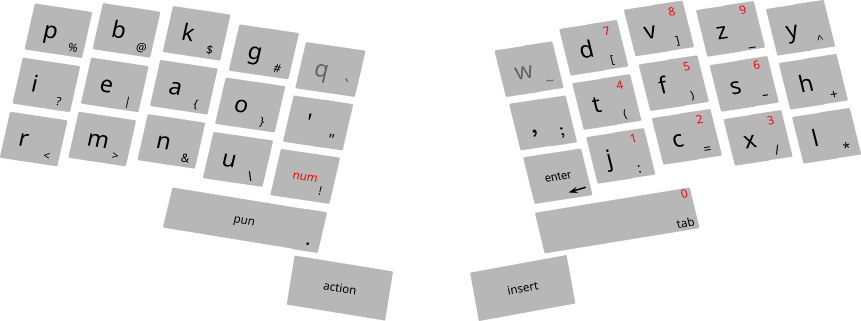
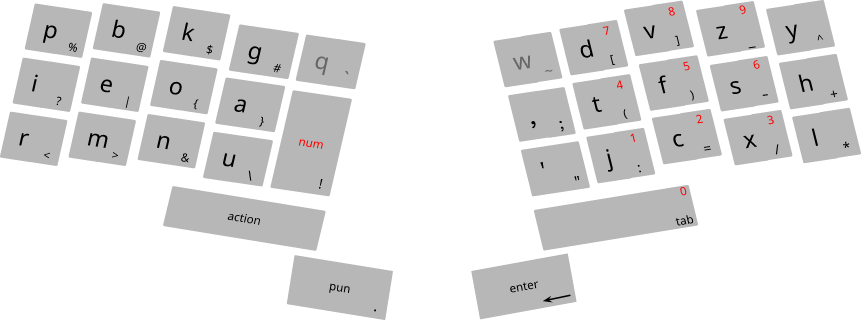
Add files via upload

diff --git a/index.html b/index.html
@@ -19,5 +19,5 @@
   </style>
   </head><body><a href='https://github.com/damoonsaghian/Codev'><h1>Codev</h1></a>
 <h2>1, Codev</h2><div>Codev is a COllaborative DEVelopment environment with command'based user interface,</div><div>	as an ideal frontend for GNUnet</div><div><p></p></div><div>list of all projects will appear in a floating layer, at the center of the screen, called overview layer</div><div>overview layer:</div><div>, left panel:</div><div>	, roots: user's home plus attached devices</div><div>	, project groups: content of roots</div><div>, main view:</div><div>	projects: content of project groups</div><div><p></p></div><div><img src='codev.png' alt='codev.png'/></div><div><p></p></div><div>in a project view, the list of files of a project will be displayed in the left side'bar</div><div>opened files will be slightly highlighted</div><div>files and directories with names starting with a dot, will be hidden</div><div>".cache" directory inside a project is for files we don't want to share or backup</div><div><p></p></div><div>each opened file will have a side'bar at right showing its sections</div><div>there we can create new view corresponding to a section</div><div>sections with views will be slightly highlighted</div><div><p></p></div><div>text files will be opened in a text editor</div><div>directories containing media files, will be opened in a gallery view</div><div>files and directories inside a gallery, will be opened in a floating layer</div><div><p></p></div><div>non'local projects, web pages, PDF documents, etc, accessed from links inside the main project,</div><div>	will be opened in a floating layer</div><div>web pages: move caret between visual elements (ignoring structural elements)</div><div><p></p></div><div>actions:</div><div>, next/previous word, line, paragraph, section (righ/left middle row keys)</div><div>, next/previous file</div><div>, next/previous section view, opened file</div><div>, go to the list of files to open a file view</div><div>, go to the list of sections to open a section view</div><div>, start and end selection, then copy or cut</div><div>, paste</div><div>, undo</div><div><p></p></div><div>, navigation: move, search</div><div>, selection</div><div>, completion</div>
-<h2>2, command based user interface</h2><div>command based user interfaces (using keyboard, voice, gesture) are faster, more convenient and more powerful,</div><div>	than pointer based user interfaces (using mouse, touch, pen)</div><div>pointer based interface seems appealing at first sight, because of its discoverability</div><div>but with simple uniform GUI (ie the oposite of what we see in websites),</div><div>	there is no need for a pointer based user interface</div><div><p></p></div><div>touch interface has an additional problem: interaction at a distance is not possible</div><div>touch interface can be useful in some special cases, but it's not good as a general interface</div><div><p></p></div><div>detection of voice commands is a relatively simple process (compared to general speech recognition),</div><div>	because we only need to match against a relatively small set of commands</div><div>a headset with near range microphone can be used, to exclude far away sound sources</div><div>also it is better to put battery and transmitter of the headset in a separate unit which can be put in a pocket</div><div>	this makes the headset lighter and safer</div><div><p></p></div><div>for those who neither can use all their fingers, nor can talk, gesture based (2d) input can be implemented</div><div><p></p></div><div><b>the ideal keyboard</b></div><div><img src='keyboard.png' alt='keyboard.png'/></div><div><p></p></div><div>the keyboard has two modes: insert mode and action mode</div><div>in action mode keys are mapped to navigation keys (arrows, page up, page down, home, end, esc),</div><div>	and ctrl/alt based keybindings</div><div>in action mode, "pun" key acts like "alt" key</div><div>when "action" or "insert" keys are pressed keyboard sends a special key combination,</div><div>	which can be used by applications, eg to flash the location of the cursor</div><div><p></p></div><div>to insert punctuations (in insert mode), press "pun"</div><div>	after entering a punctuation charactor, it automatically returns to normal insert mode</div><div>	unless the "pun" key is still pressed, in which case, it will return to normal mode after releasing "pun"</div><div>to insert numbers, press and hold "num"</div><div><p></p></div><div>to insert capital letters, press comma then press the letter</div><div>to insert an all capital word, press two commas</div><div>	the following letters will be inserted in capitalized form, until space is pressed</div><div>this is how it is implemented:</div><div>when comma key is press, keyboard enters the cap mode in which:</div><div>, pressing a letter key, sends a "backspace" key, and then the capitalized form of that letter,</div><div>	and then the cap mode will be canceled</div><div>, pressing comma again, sends a "backspace" key, and activates caps mode,</div><div>	which remains active until space (or enter or action) is pressed</div><div>, pressing any other keys, acts like normal, and cancels the cap mode</div><div><p></p></div><div>for compatibility with other applications, we may still need a mouse,</div><div>	plus "ctrl" and "shift" keys which can be put in the middle of the keyboard</div><div>for full compatibility we can add a row of function keys, plus the "delete" key</div><div><p></p></div><div><a href='https://github.com/abstracthat/dactyl-manuform'>https://github.com/abstracthat/dactyl-manuform</a></div><div><a href='https://zealot.hu/absolem/'>https://zealot.hu/absolem/</a></div><div><a href='https://github.com/foostan/crkbd'>https://github.com/foostan/crkbd</a></div><div><a href='https://github.com/nglgzz/42'>https://github.com/nglgzz/42</a></div><div><a href='https://github.com/adereth/dactyl-keyboard'>https://github.com/adereth/dactyl-keyboard</a></div><div>Kinesis Advantage 2 keyboard</div><div><a href='http://www.allthingsergo.com/the-best-ergonomic-mechanical-keyboards/'>http://www.allthingsergo.com/the-best-ergonomic-mechanical-keyboards/</a></div>
+<h2>2, command based user interface</h2><div>command based user interfaces (using keyboard, voice, gesture) are faster, more convenient and more powerful,</div><div>	than pointer based user interfaces (using mouse, touch, pen)</div><div>pointer based interface seems appealing at first sight, because of its discoverability</div><div>but with simple uniform GUI (ie the oposite of what we see in websites),</div><div>	there is no need for a pointer based user interface</div><div><p></p></div><div>touch interface has an additional problem: interaction at a distance is not possible</div><div>touch interface can be useful in some special cases, but it's not good as a general interface</div><div><p></p></div><div>detection of voice commands is a relatively simple process (compared to general speech recognition),</div><div>	because we only need to match against a relatively small set of commands</div><div>a headset with near range microphone can be used, to exclude far away sound sources</div><div>also it is better to put battery and transmitter of the headset in a separate unit which can be put in a pocket</div><div>	this makes the headset lighter and safer</div><div><p></p></div><div>for those who neither can use all their fingers, nor can talk, gesture based (2d) input can be implemented</div><div><p></p></div><div><b>the ideal keyboard</b></div><div><img src='keyboard.png' alt='keyboard.png'/></div><div><p></p></div><div>the keyboard has two modes: insert mode and action mode</div><div>in action mode, press "space" to go to "insert" mode</div><div>in action mode, keys are mapped to navigation keys (arrows, page up, page down, home, end, esc),</div><div>	and ctrl/alt based keybindings</div><div>in action mode, "pun" key acts like "alt" key</div><div>when "action" key is pressed, keyboard sends a special key combination,</div><div>	which can be used by applications, eg to flash the location of the cursor</div><div><p></p></div><div>to insert punctuations (in insert mode), press "pun"</div><div>	after entering a punctuation charactor, it automatically returns to normal insert mode</div><div>	unless the "pun" key is still pressed, in which case, it will return to normal mode after releasing "pun"</div><div>to insert numbers, press and hold "num"</div><div><p></p></div><div>to insert capital letters, press comma then press the letter</div><div>to insert an all capital word, press two commas</div><div>	the following letters will be inserted in capitalized form, until space is pressed</div><div>this is how it is implemented:</div><div>when comma key is press, keyboard enters the cap mode in which:</div><div>, pressing a letter key, sends a "backspace" key, and then the capitalized form of that letter,</div><div>	and then the cap mode will be canceled</div><div>, pressing comma again, sends a "backspace" key, and activates caps mode,</div><div>	which remains active until space (or enter or action) is pressed</div><div>, pressing any other keys, acts like normal, and cancels the cap mode</div><div><p></p></div><div>for compatibility with other applications, we may still need a mouse,</div><div>	plus "ctrl" and "shift" keys which can be put in the middle of the keyboard</div><div>for full compatibility we can add a row of function keys, plus the "delete" key</div><div><p></p></div><div><a href='https://github.com/abstracthat/dactyl-manuform'>https://github.com/abstracthat/dactyl-manuform</a></div><div><a href='https://zealot.hu/absolem/'>https://zealot.hu/absolem/</a></div><div><a href='https://github.com/foostan/crkbd'>https://github.com/foostan/crkbd</a></div><div><a href='https://github.com/nglgzz/42'>https://github.com/nglgzz/42</a></div><div><a href='https://github.com/adereth/dactyl-keyboard'>https://github.com/adereth/dactyl-keyboard</a></div><div>Kinesis Advantage 2 keyboard</div><div><a href='http://www.allthingsergo.com/the-best-ergonomic-mechanical-keyboards/'>http://www.allthingsergo.com/the-best-ergonomic-mechanical-keyboards/</a></div>
 <h2>3, GNUnet</h2><div><a href='https://www.gnunet.org/en/'>https://www.gnunet.org/en/</a></div><div><p></p></div><div><b>collaborative development using GNUnet file sharing</b></div><div>flaws of version control systems:</div><div>, they double the storage (working directory, local repository)</div><div>, their design makes it difficult to modify the history</div><div>	so in practice, the whole history must be kept indefinitely, even if not needed</div><div><p></p></div><div>when we download a project, a pristine copy is kept untouched in ".cache/gnunet/pristine",</div><div>	and ref links will be created in the working directory, and then we can work on our own branch</div><div>after a while when we want to pull and merge changes made in the main branch,</div><div>	first a three'way diff based on the main branch, pristine, and the working directory will be shown,</div><div>	then the user will be asked to accept different parts of the diff</div><div>to send a pull request to the main branch, first publish the pristine and the working directory,</div><div>	then send the two addresses to the main developer</div><div>	the main developer will make a diff based on these two, plus her own working directory</div><div>a pull request can be removed by sending a message to the main developer, and unpublishing the two links</div><div><p></p></div><div>changelog can be used to record credits, and at the same time, track backdoors</div><div><p></p></div><div><b>trustless secure transaction systems</b></div><div>decentralized internet is already elegantly implemented by GNUnet, but no one is talking about it</div><div>compare it with the hype around decentralized transaction systems, aka blockchians or distributed ledgers,</div><div>	which are inefficient and unscalable</div><div><p></p></div><div>in decentralized transaction systems, we have a P2P network where all nodes store the same ledger,</div><div>	which can be extended based on permissionless consesus between nodes</div><div>distributed ledgers are authenticated by mass collaboration powered by collective self'interests</div><div>appropriate incentives that will continue to encourage honest participation in the network,</div><div>	is a key component of the consensus protocol</div><div>anyone can participate in consensus,</div><div>	though one’s voting power is typically proportional to its possession of network resources,</div><div>	such as computation power, token wealth, storage space, etc</div><div>see "a survey of distributed consensus protocols for blockchain networks"</div><div>	<a href='https://arxiv.org/pdf/1904.04098.pdf'>https://arxiv.org/pdf/1904.04098.pdf</a></div><div><p></p></div><div>so in decentralized transaction systems:</div><div>, every full node has a copy of the ledger (an always growing database)</div><div>	typical blockchains with their currently limited number of users, are hundreds of gigabytes</div><div>	now just imagine that expanded on a global scale</div><div>	also note that, full nodes are necessary if you want private and trustless transactions</div><div>	using light nodes means we have to trust miners; how is that better than trusting banks</div><div>, transactions are slow</div><div>, the system is completely isolated from external world</div><div>	we cannot import external money and assets to the system</div><div>	a necessary feature, if we really want to replace current monetary system</div><div><p></p></div><div>it's clear that the motivation behind blockchains is not to replace the current corrupted monetary system,</div><div>	because it's just not capable to do that, by design</div><div>its only purpose is to create a side system for criminal activities</div><div><a href='http://my.pages.de/illegalblockchains'>http://my.pages.de/illegalblockchains</a></div><div><p></p></div><div>an ideal transaction system would be trustless, and avoids having a single point of failure</div><div>this doesn't necessarily mean that we have to completely decentralize everything</div><div>transactions intrinsically need some centralized parts</div><div>trying to decentralize it by force, based on an ideology, leads to hideous creatures like Bitcoin</div><div><p></p></div><div>we need special nodes (let's call them IO nodes):</div><div>, to import assets from external world</div><div>, to prevent double spending, whithout the need for a complicated consensus mechanism,</div><div>	hurting efficiency and scalability</div><div><p></p></div><div>tokens contain two fields:</div><div>, token type: determining if it's money, or any other kind of asset</div><div>, value+hash (for money tokens), or an identifier encoding the physical aspects of an asset</div><div><p></p></div><div>token history file: a file with the token as its name, containing the history of the token</div><div>each line has three parts seperated by space:</div><div>, timestamp</div><div>, a public key made by the owner (at that time),</div><div>, signature made by the private pair of the key in the previous line</div><div>	in the case of the first line, the signature made by the IO node</div><div><p></p></div><div>tokens are produced and signed by IO nodes based on real resources</div><div>to prevent a single point of failure, tokens will be signed by multiple IO nodes	</div><div><p></p></div><div>each IO node publishes all the issued tokens</div><div>for each token, a file will be published, with the token as the file name</div><div>	the file contains the signature of the latest owner</div><div>	the signature is made by the owner's public key, not the key in the history file</div><div>so IO nodes can't make fake tokens, or double spend a token, without being detected</div><div>violations made by IO nodes (double spendings, refusing valid transactions), will be reported,</div><div>	to remove them from next release of GNUnet</div><div>IO nodes do not have any power, they are just there to prevent double spending</div><div>you own your tokens signed off by IO nodes and all the previous owners</div><div><p></p></div><div>owners produce a new key for each token and for each IO node</div><div>so each IO node will have a different history file for the same token</div><div>to steal a token, one has to first hijack all IO nodes,</div><div>	and then somehow find all the private keys that the last owner used to sign the token with</div><div>even if we do not use a post quantum cryptography like NTRU,</div><div>	breaking all these keys with a quantum computer, would be very expensive</div><div><p></p></div><div>transaction request:</div><div>, timestamp</div><div>, list of provided tokens (plus a request for changes if needed)</div><div>, list of requested asset tokens, or the value requested in exchange, or a contract</div><div>, address of the receiver</div><div><p></p></div><div>first a transaction request is sent from sender to the receiver and all IO nodes</div><div>then the receiver sends a compatible answer to IO nodes</div><div>IO nodes sign the request and answer, and send it back to the sender and receiver</div><div>sender and receiver sign off their tokens and send them to the IO nodes</div><div>IO nodes send the tokens to their new owners</div><div>if any IO node receives the signed off tokens, but does not send them back to their new owners,</div><div>	they can be reported using the transaction request/answer which has their signature</div><div><p></p></div><div>the more i think, the more i'm convinced that identities capable to have tokens, must be related to real persons</div><div>otherwise, criminals can force people (by kidnapping, violance ...) to send their money/assets to anonymous accounts</div><div>one can always have different identities hidden from others, but identifiable by IO nodes</div><div><p></p></div><div>taxes, i think, are out of the scope of transaction systems</div><div>they must be evaluated according to the kind of job and a lot of other factors (like environmental damage)</div><div>nonetheless, because of IO nodes, some kind of surveillance can be implemented,</div><div>	to prevent criminal activities, without violating privacy of users</div><div><p></p></div><div>voting:</div><div>real persons submit a public key in their companies, and then can use their private keys to sign their votes</div><div>the complete list of votes will be published by the company, so anyone can check her own vote</div><div>and since the total number of voters is known, there is no place for cheating</div></body></html>
